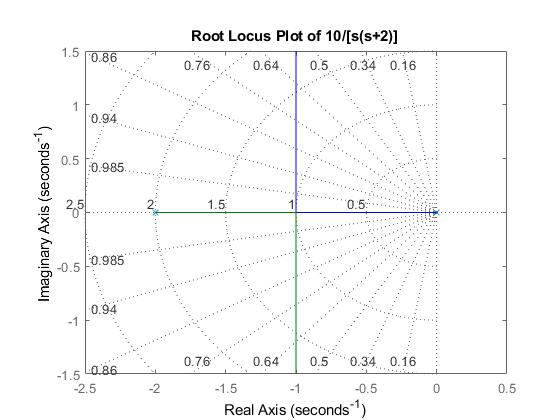
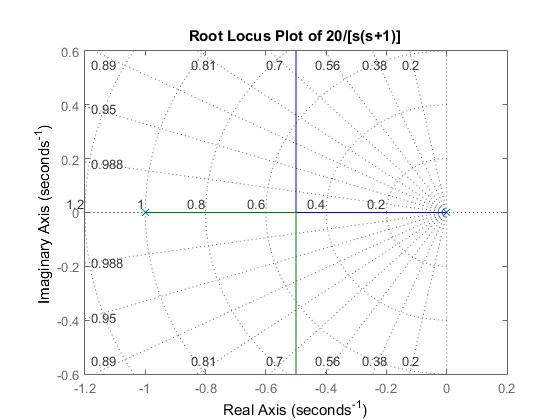
Final Exp 14

diff --git a/Exp14/511713 EXP 14/Effect_of_open_loop_pole_and_zero_on_root_locus.m b/Exp14/511713 EXP 14/Effect_of_open_loop_pole_and_zero_on_root_locus.m
@@ -1,0 +1,53 @@
+%%additon of open loop poles
+   clc;
+   p=[0 -1];
+   z=[];
+   sys=zpk(z,p,20)
+   zpk(sys)
+   figure(1)
+   rlocus(sys)
+   grid; 
+   title('Root Locus Plot of 20/[s(s+1)]')
+%%additon of open loop poles 2
+   
+   p=[0 -1 -3];
+   z=[];
+   sys=zpk(z,p,20)
+   zpk(sys)
+   figure(2)
+   rlocus(sys)
+   grid;
+   title('Root Locus Plot of 20/[s(s+1)(s+3)]')
+   
+%%additon of open loop poles 3
+   p=[0 -1 -3 -5];
+   z=[];
+   sys=zpk(z,p,20)
+   zpk(sys)
+   figure(3)
+   rlocus(sys)
+   grid;
+   title('Root Locus Plot of 20/[s(s+1)(s+3)(s+5)]')
+   
+%%additon of open loop zeros 1
+   p=[-1];
+   z=[-3];
+   sys=zpk(z,p,20)
+   zpk(sys)
+   figure(4)
+   rlocus(sys)
+   grid;  
+   title('Root Locus Plot of 20(s+3)/[s(s+1)]')
+
+   
+%%additon of open loop zeros 2
+   p=[-1 -3 -5];
+   z=[-3 -5];
+   sys=zpk(z,p,20)
+   zpk(sys)
+   figure(5)
+   rlocus(sys)
+   grid;
+   title('Root Locus Plot of 20(s+3)(s+5)/[s(s+1)(s+3)]')
+
+

diff --git a/Exp14/511713 EXP 14/Comparitive_study_of_bode_nyquist_root_locus_wrt_stability.m b/Exp14/511713 EXP 14/Comparitive_study_of_bode_nyquist_root_locus_wrt_stability.m
@@ -1,0 +1,31 @@
+%%Stability for 2nd order system
+  num=[0 0 25];
+  den=[1 7 25];
+  g=tf(num,den);
+  figure(1)
+  bode(g);
+  title('Bode plot of 25/(s^2 + 7*s + 25)');
+  margin(g);
+  figure(2);
+  nyquist(g);
+  title('Nyquist plot of 25/(s^2 + 7*s + 25)');
+  figure(3);
+  rlocus(g);
+  title('Root Locus plot of 25/(s^2 + 7*s + 25)');
+
+
+%% stability for 3rd order system
+  num1=[0 9 4.5 9]; 
+  den1=[1 7 25 0];
+  g1=tf(num1,den1); 
+  figure(4)
+  bode(g1);
+  margin(g1);
+  title('Bode plot of (9*s^2 + 4.5*s + 9)/(s^3 + 7*s^2 + 25*s)');
+  margin(g1); 
+  figure(5);
+  nyquist(g1);
+  title('Nyquist plot of (9*s^2 + 4.5*s + 9)/(s^3 + 7*s^2 + 25*s)');
+  figure(6);
+  rlocus(g1);
+  title('Root Locus plot of (9*s^2 + 4.5*s + 9)/(s^3 + 7*s^2 + 25*s)');
